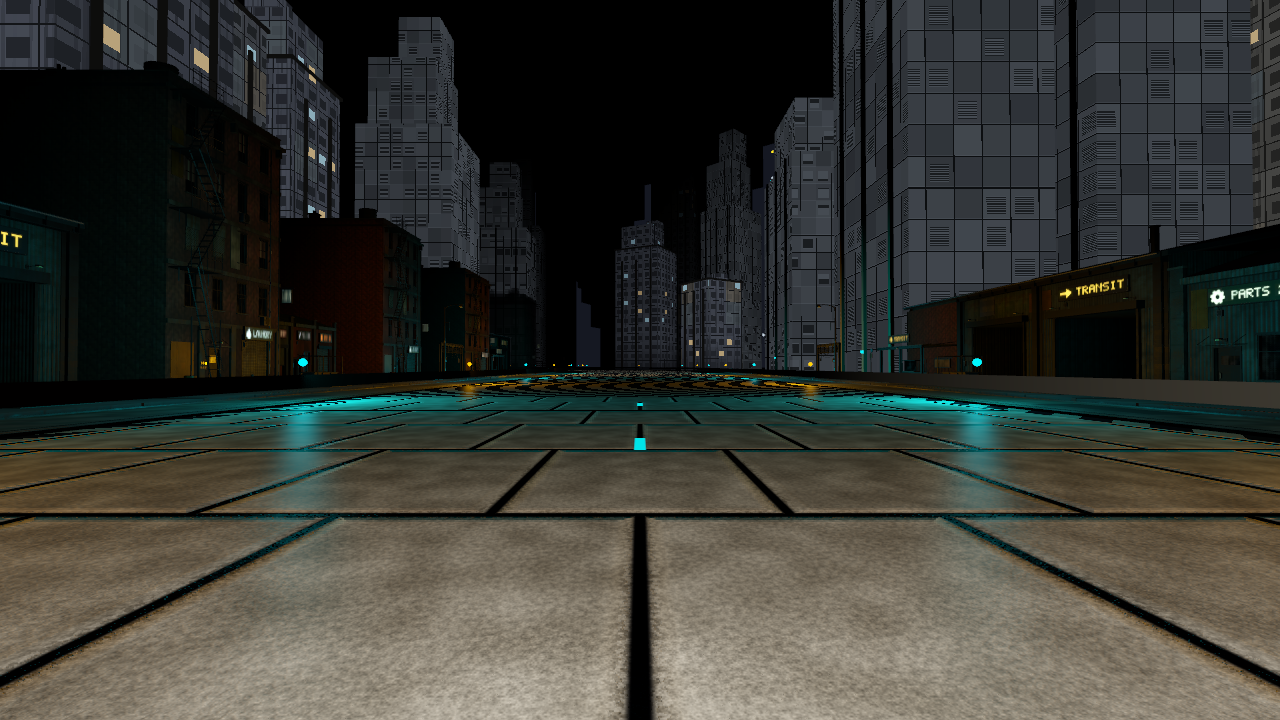
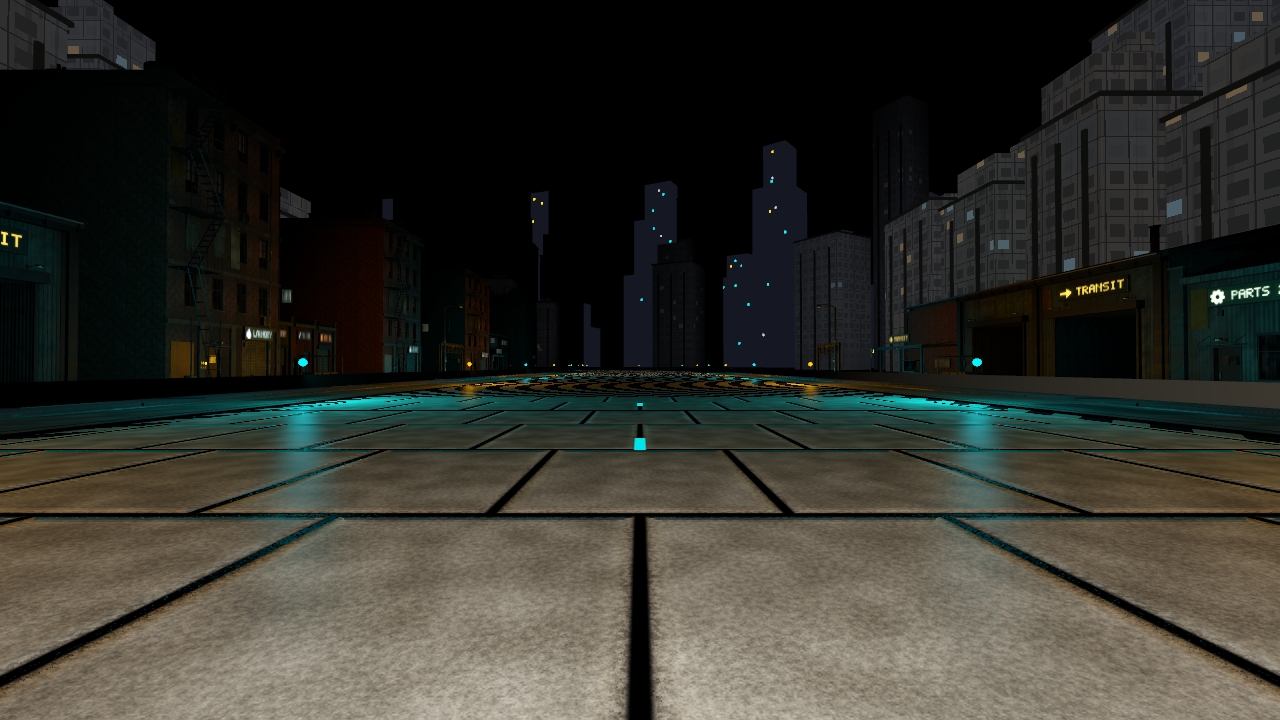
test(city): verify and capture separated roadside and backdrop layers

Changed region(s): [[0.0, 0.0, 1.0, 0.5194]]

diff --git a/.ai/plans/roadside-detail-layer.md b/.ai/plans/roadside-detail-layer.md
@@ -5,3 +5,5 @@ Continue this chat worktree from f68b7e0. User wants detailed buildings exclusiv
 Split: Claude asset lead via ak-delegate owns building/prop asset work (headless ak-blender for new authored 3D) and coherent city assembly integration, reusing the existing PBR library and detailed sources. Prefer selective landmark upgrades and reusable facade/dressing modules over whole-library rebuilds. Codex owns integration choices, independent review of delegate output, focused checks and actual Vulkan driver/street captures, final review and preview publish. Architecture/budget/layout boundaries are reviewed first with ak-escalate design. Delegate one bounded implementation at a time; separate code-only tests if needed. No assets/final, main merge, driving/road/HUD changes.
 
 Acceptance: measured minimum roadside exclusion for every generic building footprint (not merely its centre or first-row label); detailed towers have street-facing podiums, entrances/windows/service hardware/weathering and distinct silhouettes; original 66 detailed frontages and two actor pairs retained where physically possible, with any placement tradeoff measured. Silo/column landmarks gain wear, machinery/entrances/panel detail rather than a silhouette replacement. Boarded windows/doors, small inhabited-looking tarp/sleeping/belongings clusters and legible contained flame/smoke barrel effects occupy off-road reserved lots. No caricatured people or horror treatment of camps. Keep collision/clearance and deterministic placement, existing shared resources, local-light cap and explicit visible geometry/surface budgets; additions and any changed static caps must be measured. Add focused regression coverage for layering, dressing clearance, effects bounds, source immutability and fallbacks. Capture both landmarks, new detailed tower fronts, derelict/camp/barrel vignettes and road-height evidence in all quarters. Publish tested chat preview, not main.
+
+Layering stage integrated and verified: generic full-footprint rail clearance >=50 m (measured minimum50.17 m), beyond the deepest detailed rear face41.5 m. Legacy generic towers/decks/street-wall bodies are suppressed in converted mode; original RNG stream, skyline and crown stay intact. Background rows retain increasing depth offsets, with 299 buildings /1894 box instances /22728 triangles, safely below the existing cap. Original1440 detailed placement records (including66 buildings), base1,410,786 triangles and actors unchanged. ak-test focused backdrop70 passed/0 failed; actual Vulkan backdrop73 passed/0 failed including readback/mutation detection. Actual Vulkan QA21 captures saved,0 failures; road-height shots visually inspected. Independent Codex review APPROVE/no findings. Publishing this completed correction while the separate asset/detail stage continues.

diff --git a/.ai/reviews/latest.md b/.ai/reviews/latest.md
@@ -1,3 +1,2 @@
 VERDICT: APPROVE
-FINDINGS:
-- [LOW] godot/tests/city_ground_tests.gd:465 — `baseline` is still built and populated but nothing reads it any more, since the counts now come from `original`. It's wasted work and misleading — remove `baseline` and its `populate(false)` call, unless it's used further down in the function. I only read through line 504 and didn't see a use.
+FINDINGS: none

diff --git a/.ai/reviews/20261101-081201-codex.md b/.ai/reviews/20261101-081201-codex.md
@@ -1,0 +1,2 @@
+VERDICT: APPROVE
+FINDINGS: none
